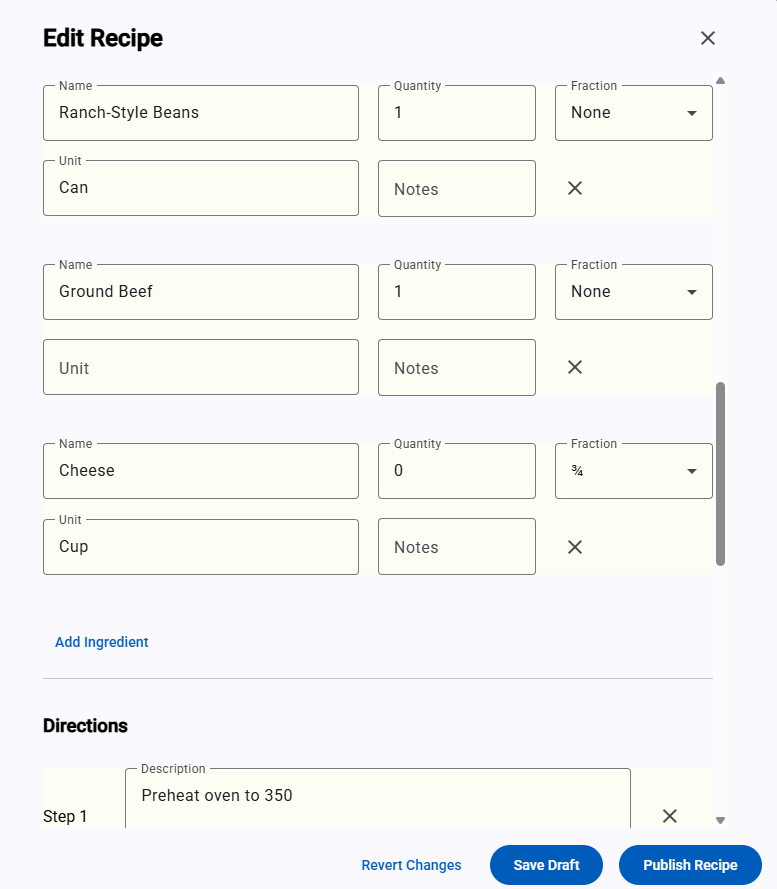
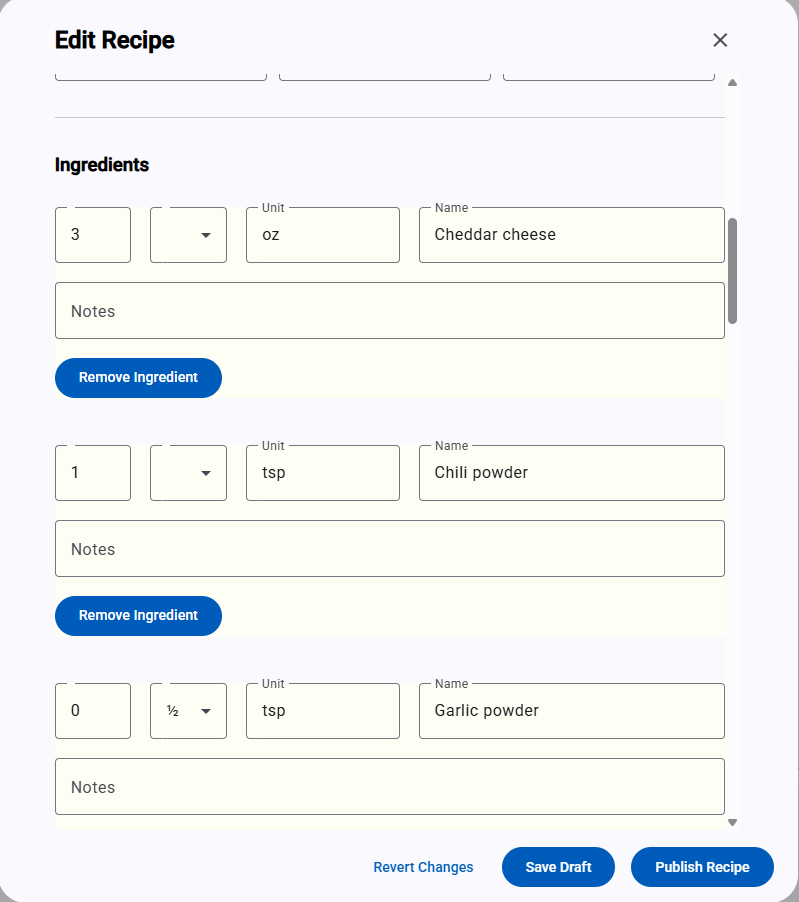
Update README with recipe metrics, bookmarks, and cleaned up old images. Update My Recipes and Cookbooks buttons to display to unauthenticated users, prompting a login when they click the buttons.

diff --git a/recipe-frontend/src/app/features/header/header-component/header.ts b/recipe-frontend/src/app/features/header/header-component/header.ts
@@ -11,6 +11,7 @@ import { MatMenuModule } from '@angular/material/menu';
 import { LoginDialogComponent } from '../../../shared/dialogs/login-dialog/login-dialog';
 import { AuthStateService } from '../../../shared/services/auth-state-service/auth-state.service';
 import { RegistrationDialog } from '../../../shared/dialogs/registration-dialog/registration-dialog';
+import { AuthPromptService } from '../../../shared/services/auth-prompt-service/auth-prompt.service';
 
 @Component({
   selector: 'app-header-component',
@@ -27,11 +28,10 @@ import { RegistrationDialog } from '../../../shared/dialogs/registration-dialog/
   styleUrl: './header.scss',
 })
 export class HeaderComponent {
-  constructor(
-    private headerService: HeaderService,
-    private dialog: MatDialog,
-    private router: Router,
-  ) {}
+  private authPrompt = inject(AuthPromptService);
+  private headerService = inject(HeaderService);
+  private dialog = inject(MatDialog);
+  private router = inject(Router);
 
   authState = inject(AuthStateService);
 
@@ -51,17 +51,25 @@ export class HeaderComponent {
     });
   }
 
-  // employeeUser = signal(false);
+  onMyRecipesClick(): void {
+    console.log('Clicked');
+    if (this.authState.currentUser()) {
+      this.router.navigate(['/recipes']);
+    } else {
+      this.authPrompt.promptLogin('Login to view your recipes.', () => {
+        this.router.navigate(['/recipes']);
+      });
+    }
+  }
 
-  checkRoleType() {
-    //   if (
-    //     this.dataPassService.loggedInUser()?.role === 'manager' ||
-    //     this.dataPassService.loggedInUser()?.role === 'admin'
-    //   ) {
-    //     this.employeeUser.set(true);
-    //   } else {
-    //     this.employeeUser.set(false);
-    //   }
+  onCookbooksClick(): void {
+    if (this.authState.currentUser()) {
+      this.router.navigate(['/cookbooks']);
+    } else {
+      this.authPrompt.promptLogin('Login to view your cookbooks.', () => {
+        this.router.navigate(['/cookbooks']);
+      });
+    }
   }
 
   profileClick() {

diff --git a/recipe-frontend/src/app/features/header/header-component/header.html b/recipe-frontend/src/app/features/header/header-component/header.html
@@ -10,10 +10,10 @@
     <button mat-raised-button class="header__btn" routerLink="/">
       Recipes
     </button>
-    <button mat-raised-button class="header__btn" routerLink="/cookbooks">
+    <button mat-raised-button class="header__btn" (click)="onCookbooksClick()">
       Cookbooks
     </button>
-    <button mat-raised-button class="header__btn" routerLink="/recipes">
+    <button mat-raised-button class="header__btn" (click)="onMyRecipesClick()">
       My Recipes
     </button>
     <button mat-raised-button class="header__btn" routerLink="/profile">
@@ -23,11 +23,14 @@
     <button mat-raised-button class="header__btn" routerLink="/">
       Recipes
     </button>
+    <button mat-raised-button class="header__btn" (click)="onCookbooksClick()">
+      Cookbooks
+    </button>
+    <button mat-raised-button class="header__btn" (click)="onMyRecipesClick()">
+      My Recipes
+    </button>
     <button mat-raised-button class="header__btn" (click)="openLogin()">
       Login
-    </button>
-    <button mat-raised-button class="header__btn" (click)="openRegistration()">
-      Register
     </button>
     }
   </div>

diff --git a/README.md b/README.md
@@ -6,7 +6,7 @@ A full-stack recipe management platform built with Angular and Spring Boot.
 
 I started this project out of frustration with my own recipe collection. Between a few different apps and websites, I had over 100 recipes saved — and no good way to actually find anything. Everything lived in one long, undifferentiated list, so "what should I make tonight" always turned into scrolling through recipes I'd forgotten I even saved. The Wright Kitchen is my attempt to fix that: a place to organize recipes into real collections — Tex-Mex, Family Dinners, Weeknight Meals — so finding the right recipe is actually fast, not a chore.
 
-What started as "I just want to group my recipes" grew into a full-stack app, since I also wanted proper editing, versioning (so I can tweak a recipe without breaking the version I've already cooked from), image handling, and search that doesn't feel like an afterthought.
+What started as "I just want to group my recipes" grew into a full-stack app. I wanted to include editing and versioning recipes, adding images, searching, and sharing.
 
 ---
 
@@ -27,7 +27,7 @@ Find what you're looking for fast, without digging through a single long list.
 - Upload a custom image or choose from a curated library of default images
 - Recipe versioning that allows editing published recipes without affecting the live version
 
-![Edit Recipe](edit-recipes.png)
+![Ingredients includes whole and fractional numbers, with unit, and name](edit-recipes.png)
 
 ### Cookbook Management
 
@@ -43,14 +43,16 @@ Find what you're looking for fast, without digging through a single long list.
 
 ![User Recipes](user-recipes.png)
 
+- Profile page includes all liked recipes and all recently viewed recipes.
+
+![Profile Page](personal-dashboard.png)
+
 ### Social
 
 - Like recipes created by other users
-- View recently liked and recently viewed recipes
+- Bookmark recipes you want to try later, or ones you really enjoy!
 
-![Profile Page](profile-page.png)
-
----
+## ![Like and bookmark recipes](like-and-bookmark-recipes.png)
 
 ## Planned Features
 
@@ -75,20 +77,20 @@ When a published recipe is edited:
 _Clicking "Revise Recipe" starts a new draft._
 
 ![Published recipe now also has a draft recipe](recipe-being-revised.png)
+
 _The recipe now exists as both a live published version and an editable draft._
 
 This avoids the common problem where users must unpublish content just to make edits.
 
 ---
 
-## Automatic Liked Recipes Management
+## Bookmarking Recipes
 
-When a user is created, a Liked Recipes cookbook is automatically created. This cookbook contains recipes the user has liked, making it easy to find favorite recipes again.
-When a recipe is liked, it is automatically added to this cookbook. When a recipe is unliked, it is automatically removed.
+When a user is created, a Bookmarked Recipes cookbook is automatically created. This cookbook is tied to the "bookmark" action on recipes, making it easier to find recipes you want to come back to.
 
-![Cookbook created automatically](liked-recipe-cookbook-created.png)
+![Bookmarked Cookbooks Automatically Created](bookmark-cookbook.png)
 
-![Liked recipe added to cookbook](liked-recipe-adding.png)
+![Bookmark Content Page](bookmark-cookbook-contents.png)
 
 ## Image Processing
 
